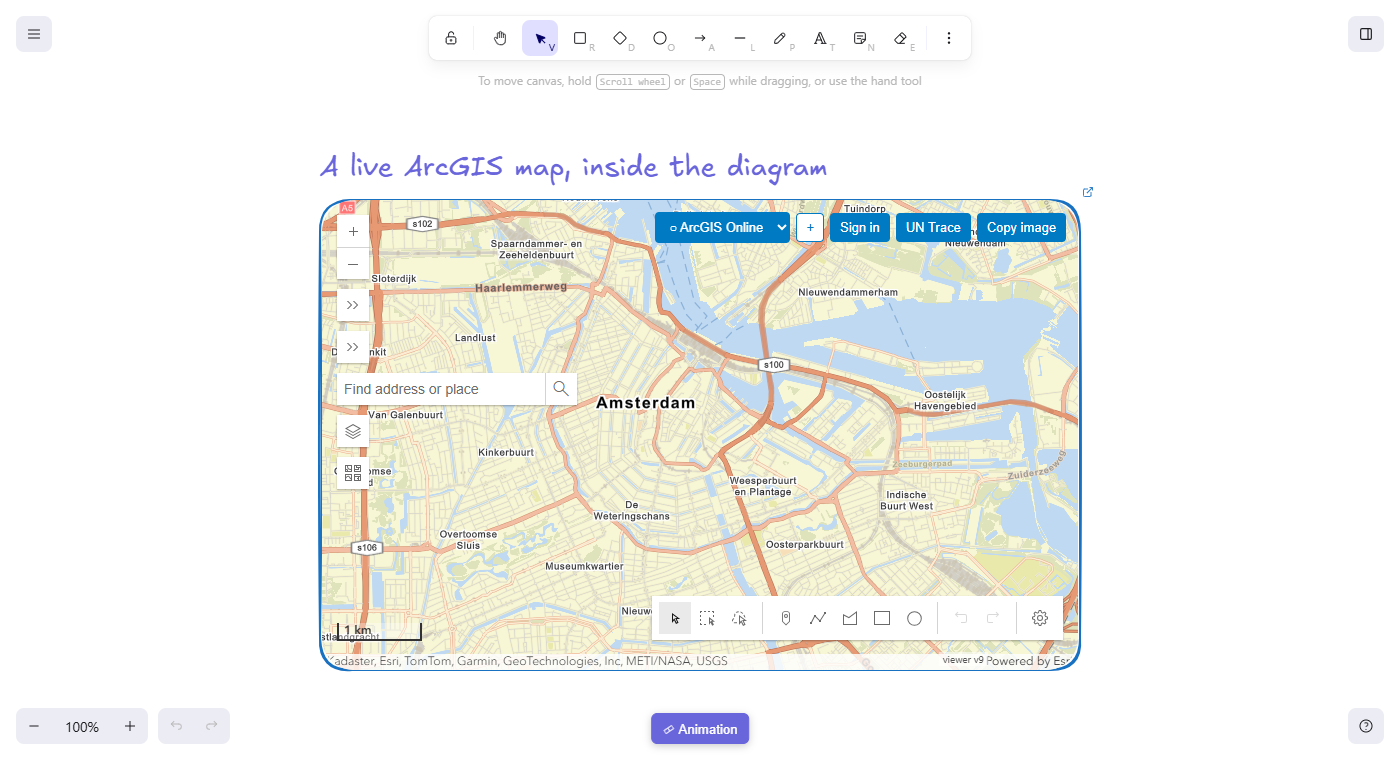
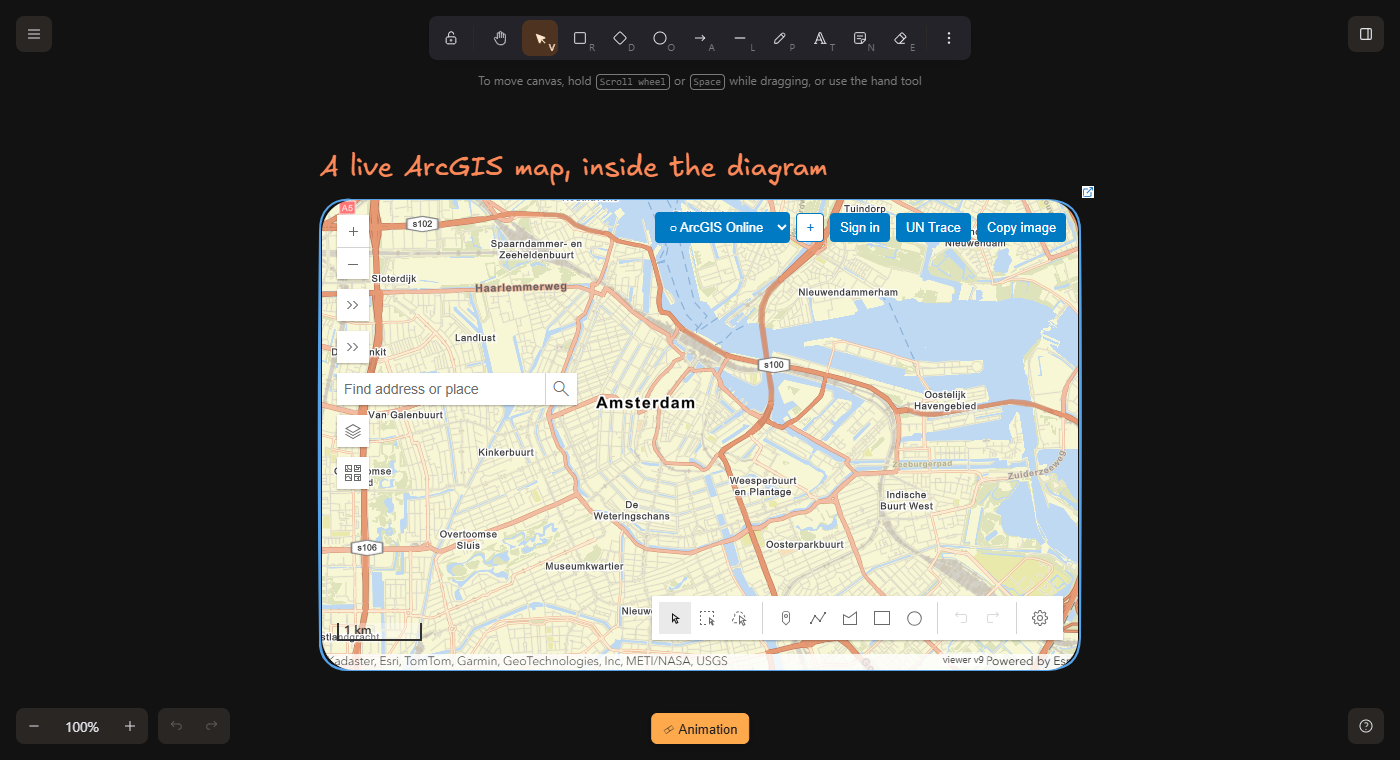
Docs: refresh README media in the new brand color
- New hero GIF: a fuller ArcGIS Enterprise architecture (users, load
  balancer, Web Adaptor, Portal, Hosting/GIS servers, data stores) built
  in 3 slides with per-slide hold times; unchanged elements stay still.
- New light and dark editor screenshots; library and map in dark mode,
  welcome and text-to-diagram in light mode.
- Text-to-diagram shot now shows a colored diagram with symbols/groups.
- README gallery with captions; drop the unused animation-transition.png.

diff --git a/README.md b/README.md
@@ -6,7 +6,7 @@
 
 <img src="docs/media/animation-demo.gif" alt="An ArcGIS Enterprise architecture built step by step with Trazo: animated slides with official Esri icons, exported as a GIF" width="720">
 
-<sub>An ArcGIS Enterprise architecture built step by step — made and exported to GIF with Trazo itself (official Esri Architecture Center icons).</sub>
+<sub>An ArcGIS Enterprise architecture built step by step — made and exported to GIF with Trazo itself (official Esri Architecture Center icons). Elements that do not change stay perfectly still; only what changes animates.</sub>
 
 _Built on [Excalidraw](https://github.com/excalidraw/excalidraw) (MIT). Not affiliated with or endorsed by Excalidraw or Esri._
 
@@ -32,12 +32,16 @@ Excalidraw is a great hand-drawn whiteboard. Trazo keeps everything that makes i
 
 <table>
 <tr>
-<td><img src="docs/media/map-embed.png" alt="Interactive ArcGIS map in the canvas"></td>
-<td><img src="docs/media/library.png" alt="Library grouped by source"></td>
+<td><img src="docs/media/editor-light.png" alt="An ArcGIS Enterprise architecture in light mode"><br><sub><b>Light mode</b> — an ArcGIS Enterprise architecture with official Esri icons</sub></td>
+<td><img src="docs/media/editor-dark.png" alt="The same architecture in dark mode"><br><sub><b>Dark mode</b> — same drawing, theme-aware UI</sub></td>
 </tr>
 <tr>
-<td><img src="docs/media/text-to-diagram.png" alt="Text to diagram with your own LLM"></td>
-<td><img src="docs/media/welcome.png" alt="Trazo welcome screen"></td>
+<td><img src="docs/media/map-embed.png" alt="Interactive ArcGIS map in the canvas"><br><sub><b>Live map</b> inside the canvas (ArcGIS Online or any Enterprise portal)</sub></td>
+<td><img src="docs/media/text-to-diagram.png" alt="Text to diagram with your own LLM"><br><sub><b>Text to diagram</b> with your own LLM — colors, symbols and groups</sub></td>
+</tr>
+<tr>
+<td><img src="docs/media/library.png" alt="Library grouped by source"><br><sub><b>Library</b> grouped by source, never mixed</sub></td>
+<td><img src="docs/media/welcome.png" alt="Trazo welcome screen"><br><sub><b>Welcome screen</b> — local-first, nothing leaves your browser</sub></td>
 </tr>
 </table>
 
